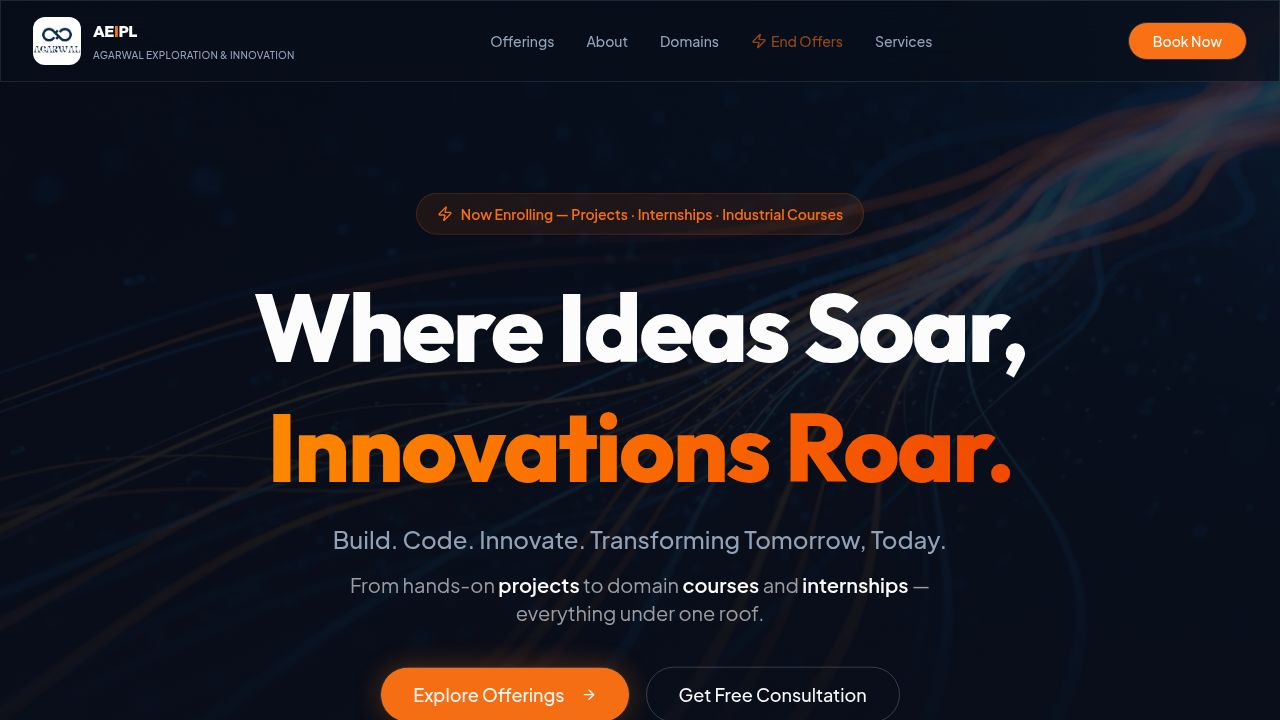
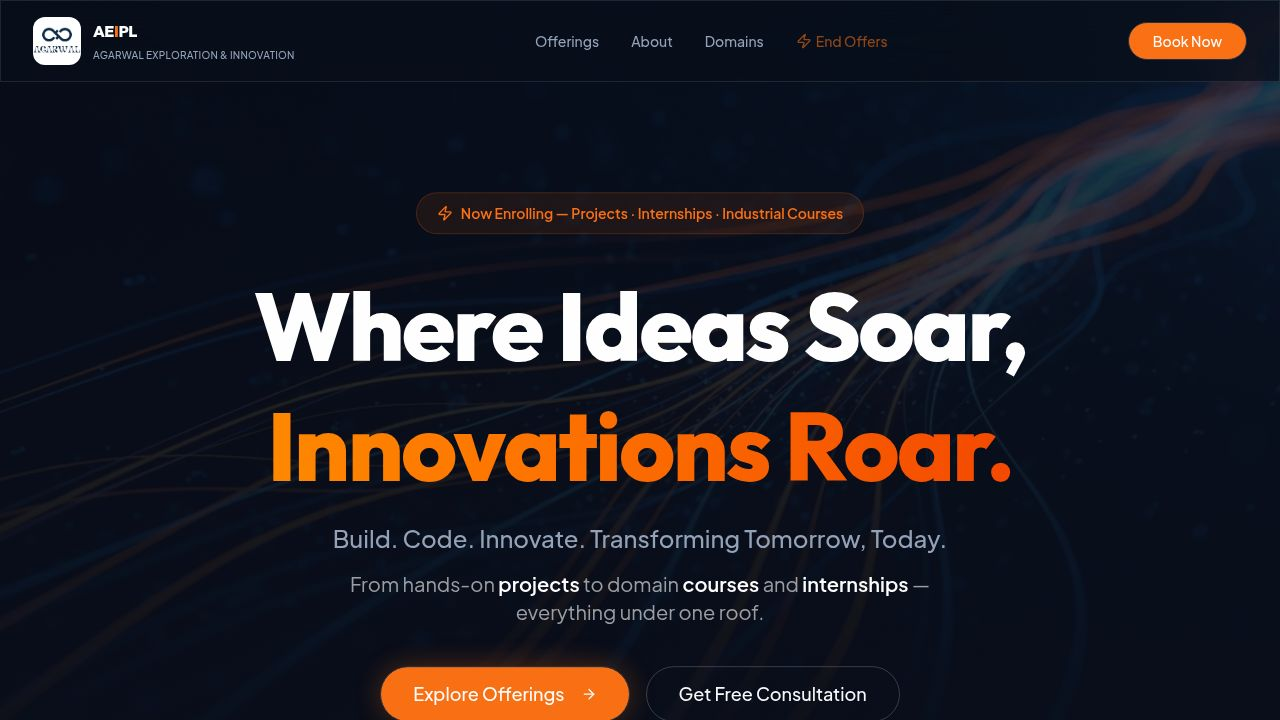
Add new sections for announcements, courses, and gallery to the main page
Integrates new API endpoints for fetching announcements, courses, and gallery items. Dynamically renders these sections and adds corresponding navigation links to the header, conditional on content availability. Includes state management for announcements and gallery filtering.

Replit-Commit-Author: Agent
Replit-Commit-Session-Id: 9d6d29f7-9458-4e11-9b7b-8f2f24aa0d80
Replit-Commit-Checkpoint-Type: full_checkpoint
Replit-Commit-Event-Id: a358bf66-615b-4f62-afee-a2563e769d20
Replit-Commit-Screenshot-Url: https://storage.googleapis.com/screenshot-production-us-central1/95490af2-575a-47a7-8583-9c33b43fd7f7/9d6d29f7-9458-4e11-9b7b-8f2f24aa0d80/fA9jDaE
Replit-Helium-Checkpoint-Created: true

diff --git a/artifacts/project-landing/src/pages/Home.tsx b/artifacts/project-landing/src/pages/Home.tsx
@@ -1,4 +1,4 @@
-import { useState } from "react";
+import { useState, useEffect } from "react";
 import { motion } from "framer-motion";
 import { useForm, Controller } from "react-hook-form";
 import { zodResolver } from "@hookform/resolvers/zod";
@@ -29,6 +29,34 @@ import {
   AccordionTrigger,
 } from "@/components/ui/accordion";
 import { Countdown } from "@/components/countdown";
+
+interface Announcement {
+  id: number;
+  title: string;
+  body: string;
+  imageUrl: string | null;
+  isActive: boolean;
+}
+
+interface Course {
+  id: number;
+  title: string;
+  domain: string;
+  duration: string;
+  fee: string;
+  description: string;
+  highlights: string;
+  imageUrl: string | null;
+  pdfUrl: string | null;
+  isActive: boolean;
+}
+
+interface GalleryItem {
+  id: number;
+  title: string;
+  category: "projects" | "events";
+  imageUrl: string;
+}
 
 const contactSchema = z.object({
   name: z.string().min(2, "Name is required"),
@@ -117,6 +145,26 @@ export default function Home() {
   const { toast } = useToast();
   const [isSubmitting, setIsSubmitting] = useState(false);
   const [selectedService, setSelectedService] = useState<string>("");
+  const [announcements, setAnnouncements] = useState<Announcement[]>([]);
+  const [courses, setCourses] = useState<Course[]>([]);
+  const [gallery, setGallery] = useState<GalleryItem[]>([]);
+  const [galleryTab, setGalleryTab] = useState<"all" | "projects" | "events">("all");
+  const [announcementIdx, setAnnouncementIdx] = useState(0);
+  const [announcementDismissed, setAnnouncementDismissed] = useState(false);
+
+  useEffect(() => {
+    fetch("/api/announcements").then(r => r.json()).then(d => setAnnouncements(d.announcements ?? [])).catch(() => {});
+    fetch("/api/courses").then(r => r.json()).then(d => setCourses(d.courses ?? [])).catch(() => {});
+    fetch("/api/gallery").then(r => r.json()).then(d => setGallery(d.gallery ?? [])).catch(() => {});
+  }, []);
+
+  useEffect(() => {
+    if (announcements.length <= 1) return;
+    const t = setInterval(() => setAnnouncementIdx(i => (i + 1) % announcements.length), 4000);
+    return () => clearInterval(t);
+  }, [announcements.length]);
+
+  const filteredGallery = galleryTab === "all" ? gallery : gallery.filter(g => g.category === galleryTab);
 
   const form = useForm<ContactFormValues>({
     resolver: zodResolver(contactSchema),
@@ -187,10 +235,15 @@ export default function Home() {
             <a href="#offerings" className="text-sm font-medium text-muted-foreground hover:text-white transition-colors">Offerings</a>
             <a href="#about" className="text-sm font-medium text-muted-foreground hover:text-white transition-colors">About</a>
             <a href="#domains" className="text-sm font-medium text-muted-foreground hover:text-white transition-colors">Domains</a>
+            {courses.length > 0 && (
+              <a href="#courses" className="text-sm font-medium text-muted-foreground hover:text-white transition-colors">Courses</a>
+            )}
+            {gallery.length > 0 && (
+              <a href="#gallery" className="text-sm font-medium text-muted-foreground hover:text-white transition-colors">Gallery</a>
+            )}
             <a href="#offers" className="text-sm font-medium text-primary flex items-center gap-1 animate-pulse">
               <Zap className="w-4 h-4" /> End Offers
             </a>
-            <a href="#services" className="text-sm font-medium text-muted-foreground hover:text-white transition-colors">Services</a>
           </div>
 
           <Button asChild className="rounded-full px-6 bg-primary hover:bg-primary/90 text-white">
@@ -198,6 +251,30 @@ export default function Home() {
           </Button>
         </div>
       </nav>
+
+      {/* Announcements Ticker */}
+      {announcements.length > 0 && !announcementDismissed && (
+        <div className="fixed top-20 left-0 right-0 z-40 bg-primary/95 backdrop-blur-sm border-b border-primary/50 px-4 py-2.5 flex items-center gap-3">
+          <span className="shrink-0 text-white text-xs font-bold uppercase tracking-widest bg-white/20 px-2 py-0.5 rounded">
+            Notice
+          </span>
+          <div className="flex-1 overflow-hidden">
+            <motion.p
+              key={announcementIdx}
+              initial={{ opacity: 0, y: 8 }}
+              animate={{ opacity: 1, y: 0 }}
+              exit={{ opacity: 0, y: -8 }}
+              className="text-white text-sm font-medium truncate"
+            >
+              {announcements[announcementIdx]?.title} — {announcements[announcementIdx]?.body}
+            </motion.p>
+          </div>
+          {announcements.length > 1 && (
+            <span className="shrink-0 text-white/60 text-xs">{announcementIdx + 1}/{announcements.length}</span>
+          )}
+          <button onClick={() => setAnnouncementDismissed(true)} className="shrink-0 text-white/70 hover:text-white text-lg leading-none ml-1">×</button>
+        </div>
+      )}
 
       {/* Hero */}
       <section className="relative pt-32 pb-20 lg:pt-48 lg:pb-32 overflow-hidden">
@@ -346,6 +423,78 @@ export default function Home() {
           </div>
         </div>
       </section>
+
+      {/* Live Courses Section — only shown when courses exist in DB */}
+      {courses.length > 0 && (
+        <section id="courses" className="py-24 bg-secondary/10 border-y border-white/5">
+          <div className="max-w-7xl mx-auto px-4 sm:px-6 lg:px-8">
+            <div className="text-center mb-16">
+              <h2 className="text-3xl md:text-5xl font-display font-bold text-white mb-4">
+                Our Industrial Courses 🎓
+              </h2>
+              <p className="text-xl text-muted-foreground max-w-2xl mx-auto">
+                Hands-on training programs by industry experts — with lab sessions and completion certificates.
+              </p>
+            </div>
+            <div className="grid grid-cols-1 md:grid-cols-2 lg:grid-cols-3 gap-8">
+              {courses.map((course, idx) => (
+                <motion.div
+                  key={course.id}
+                  initial={{ opacity: 0, y: 20 }}
+                  whileInView={{ opacity: 1, y: 0 }}
+                  viewport={{ once: true }}
+                  transition={{ delay: idx * 0.07 }}
+                  className="bg-glass-card rounded-3xl border border-white/10 overflow-hidden flex flex-col hover-glow"
+                >
+                  {course.imageUrl ? (
+                    <img src={course.imageUrl} alt={course.title} className="w-full h-44 object-cover" />
+                  ) : (
+                    <div className="w-full h-44 bg-gradient-to-br from-primary/20 to-orange-500/10 flex items-center justify-center">
+                      <GraduationCap className="w-14 h-14 text-primary/40" />
+                    </div>
+                  )}
+                  <div className="p-6 flex flex-col flex-1">
+                    <div className="flex items-center gap-2 mb-3">
+                      <span className="text-xs font-bold px-2.5 py-1 rounded-full bg-primary/15 text-primary border border-primary/20">
+                        {course.domain}
+                      </span>
+                    </div>
+                    <h3 className="text-lg font-bold text-white mb-2">{course.title}</h3>
+                    <p className="text-sm text-muted-foreground leading-relaxed mb-4 flex-1">{course.description}</p>
+                    {course.highlights && (
+                      <ul className="space-y-1.5 mb-4">
+                        {course.highlights.split("\n").filter(Boolean).slice(0, 3).map((h, i) => (
+                          <li key={i} className="flex items-center gap-2 text-xs text-white/70">
+                            <CheckCircle2 className="w-3.5 h-3.5 text-primary shrink-0" />{h.trim()}
+                          </li>
+                        ))}
+                      </ul>
+                    )}
+                    <div className="flex items-center justify-between text-sm mb-5 pt-3 border-t border-white/5">
+                      <span className="text-muted-foreground flex items-center gap-1.5">
+                        <Clock className="w-4 h-4" /> {course.duration}
+                      </span>
+                      <span className="text-primary font-bold text-base">{course.fee}</span>
+                    </div>
+                    <div className="flex gap-2">
+                      <Button asChild className="flex-1 bg-primary hover:bg-primary/90 text-white rounded-xl">
+                        <a href="#contact">Enroll Now →</a>
+                      </Button>
+                      {course.pdfUrl && (
+                        <Button asChild variant="outline" className="border-white/15 hover:bg-white/5 rounded-xl px-3">
+                          <a href={course.pdfUrl} target="_blank" rel="noopener noreferrer">
+                            <BookOpen className="w-4 h-4" />
+                          </a>
+                        </Button>
+                      )}
+                    </div>
+                  </div>
+                </motion.div>
+              ))}
+            </div>
+          </div>
+        </section>
+      )}
 
       {/* About Section */}
       <section id="about" className="py-24 relative">
@@ -564,6 +713,69 @@ export default function Home() {
           </div>
         </div>
       </section>
+
+      {/* Gallery Section — only shown when gallery images exist in DB */}
+      {gallery.length > 0 && (
+        <section id="gallery" className="py-24 bg-secondary/10 border-y border-white/5">
+          <div className="max-w-7xl mx-auto px-4 sm:px-6 lg:px-8">
+            <div className="text-center mb-12">
+              <h2 className="text-3xl md:text-5xl font-display font-bold text-white mb-4">
+                Our Gallery 📸
+              </h2>
+              <p className="text-xl text-muted-foreground max-w-2xl mx-auto mb-8">
+                Real projects, real events, real results.
+              </p>
+              <div className="flex items-center justify-center gap-2">
+                {(["all", "projects", "events"] as const).map(tab => (
+                  <button
+                    key={tab}
+                    onClick={() => setGalleryTab(tab)}
+                    className={`px-5 py-2 rounded-full text-sm font-semibold transition-all capitalize ${
+                      galleryTab === tab
+                        ? "bg-primary text-white shadow-lg shadow-primary/25"
+                        : "bg-white/5 text-muted-foreground hover:bg-white/10 border border-white/10"
+                    }`}
+                  >
+                    {tab === "all" ? "All" : tab === "projects" ? "Projects" : "Events"}
+                  </button>
+                ))}
+              </div>
+            </div>
+            <motion.div
+              key={galleryTab}
+              initial={{ opacity: 0 }}
+              animate={{ opacity: 1 }}
+              className="columns-2 md:columns-3 lg:columns-4 gap-4 space-y-4"
+            >
+              {filteredGallery.map((item, idx) => (
+                <motion.div
+                  key={item.id}
+                  initial={{ opacity: 0, scale: 0.95 }}
+                  whileInView={{ opacity: 1, scale: 1 }}
+                  viewport={{ once: true }}
+                  transition={{ delay: idx * 0.04 }}
+                  className="break-inside-avoid rounded-2xl overflow-hidden border border-white/10 group relative"
+                >
+                  <img
+                    src={item.imageUrl}
+                    alt={item.title}
+                    className="w-full object-cover group-hover:scale-105 transition-transform duration-500"
+                  />
+                  <div className="absolute inset-0 bg-gradient-to-t from-black/70 via-transparent to-transparent opacity-0 group-hover:opacity-100 transition-opacity flex items-end p-3">
+                    <div>
+                      <p className="text-white text-sm font-semibold leading-tight">{item.title}</p>
+                      <span className="text-xs text-primary capitalize">{item.category}</span>
+                    </div>
+                  </div>
+                </motion.div>
+              ))}
+            </motion.div>
+            {filteredGallery.length === 0 && (
+              <p className="text-center text-muted-foreground py-12">No images in this category yet.</p>
+            )}
+          </div>
+        </section>
+      )}
 
       {/* Contact / Enquiry Form */}
       <section id="contact" className="py-24 relative bg-secondary/10 border-t border-white/5">